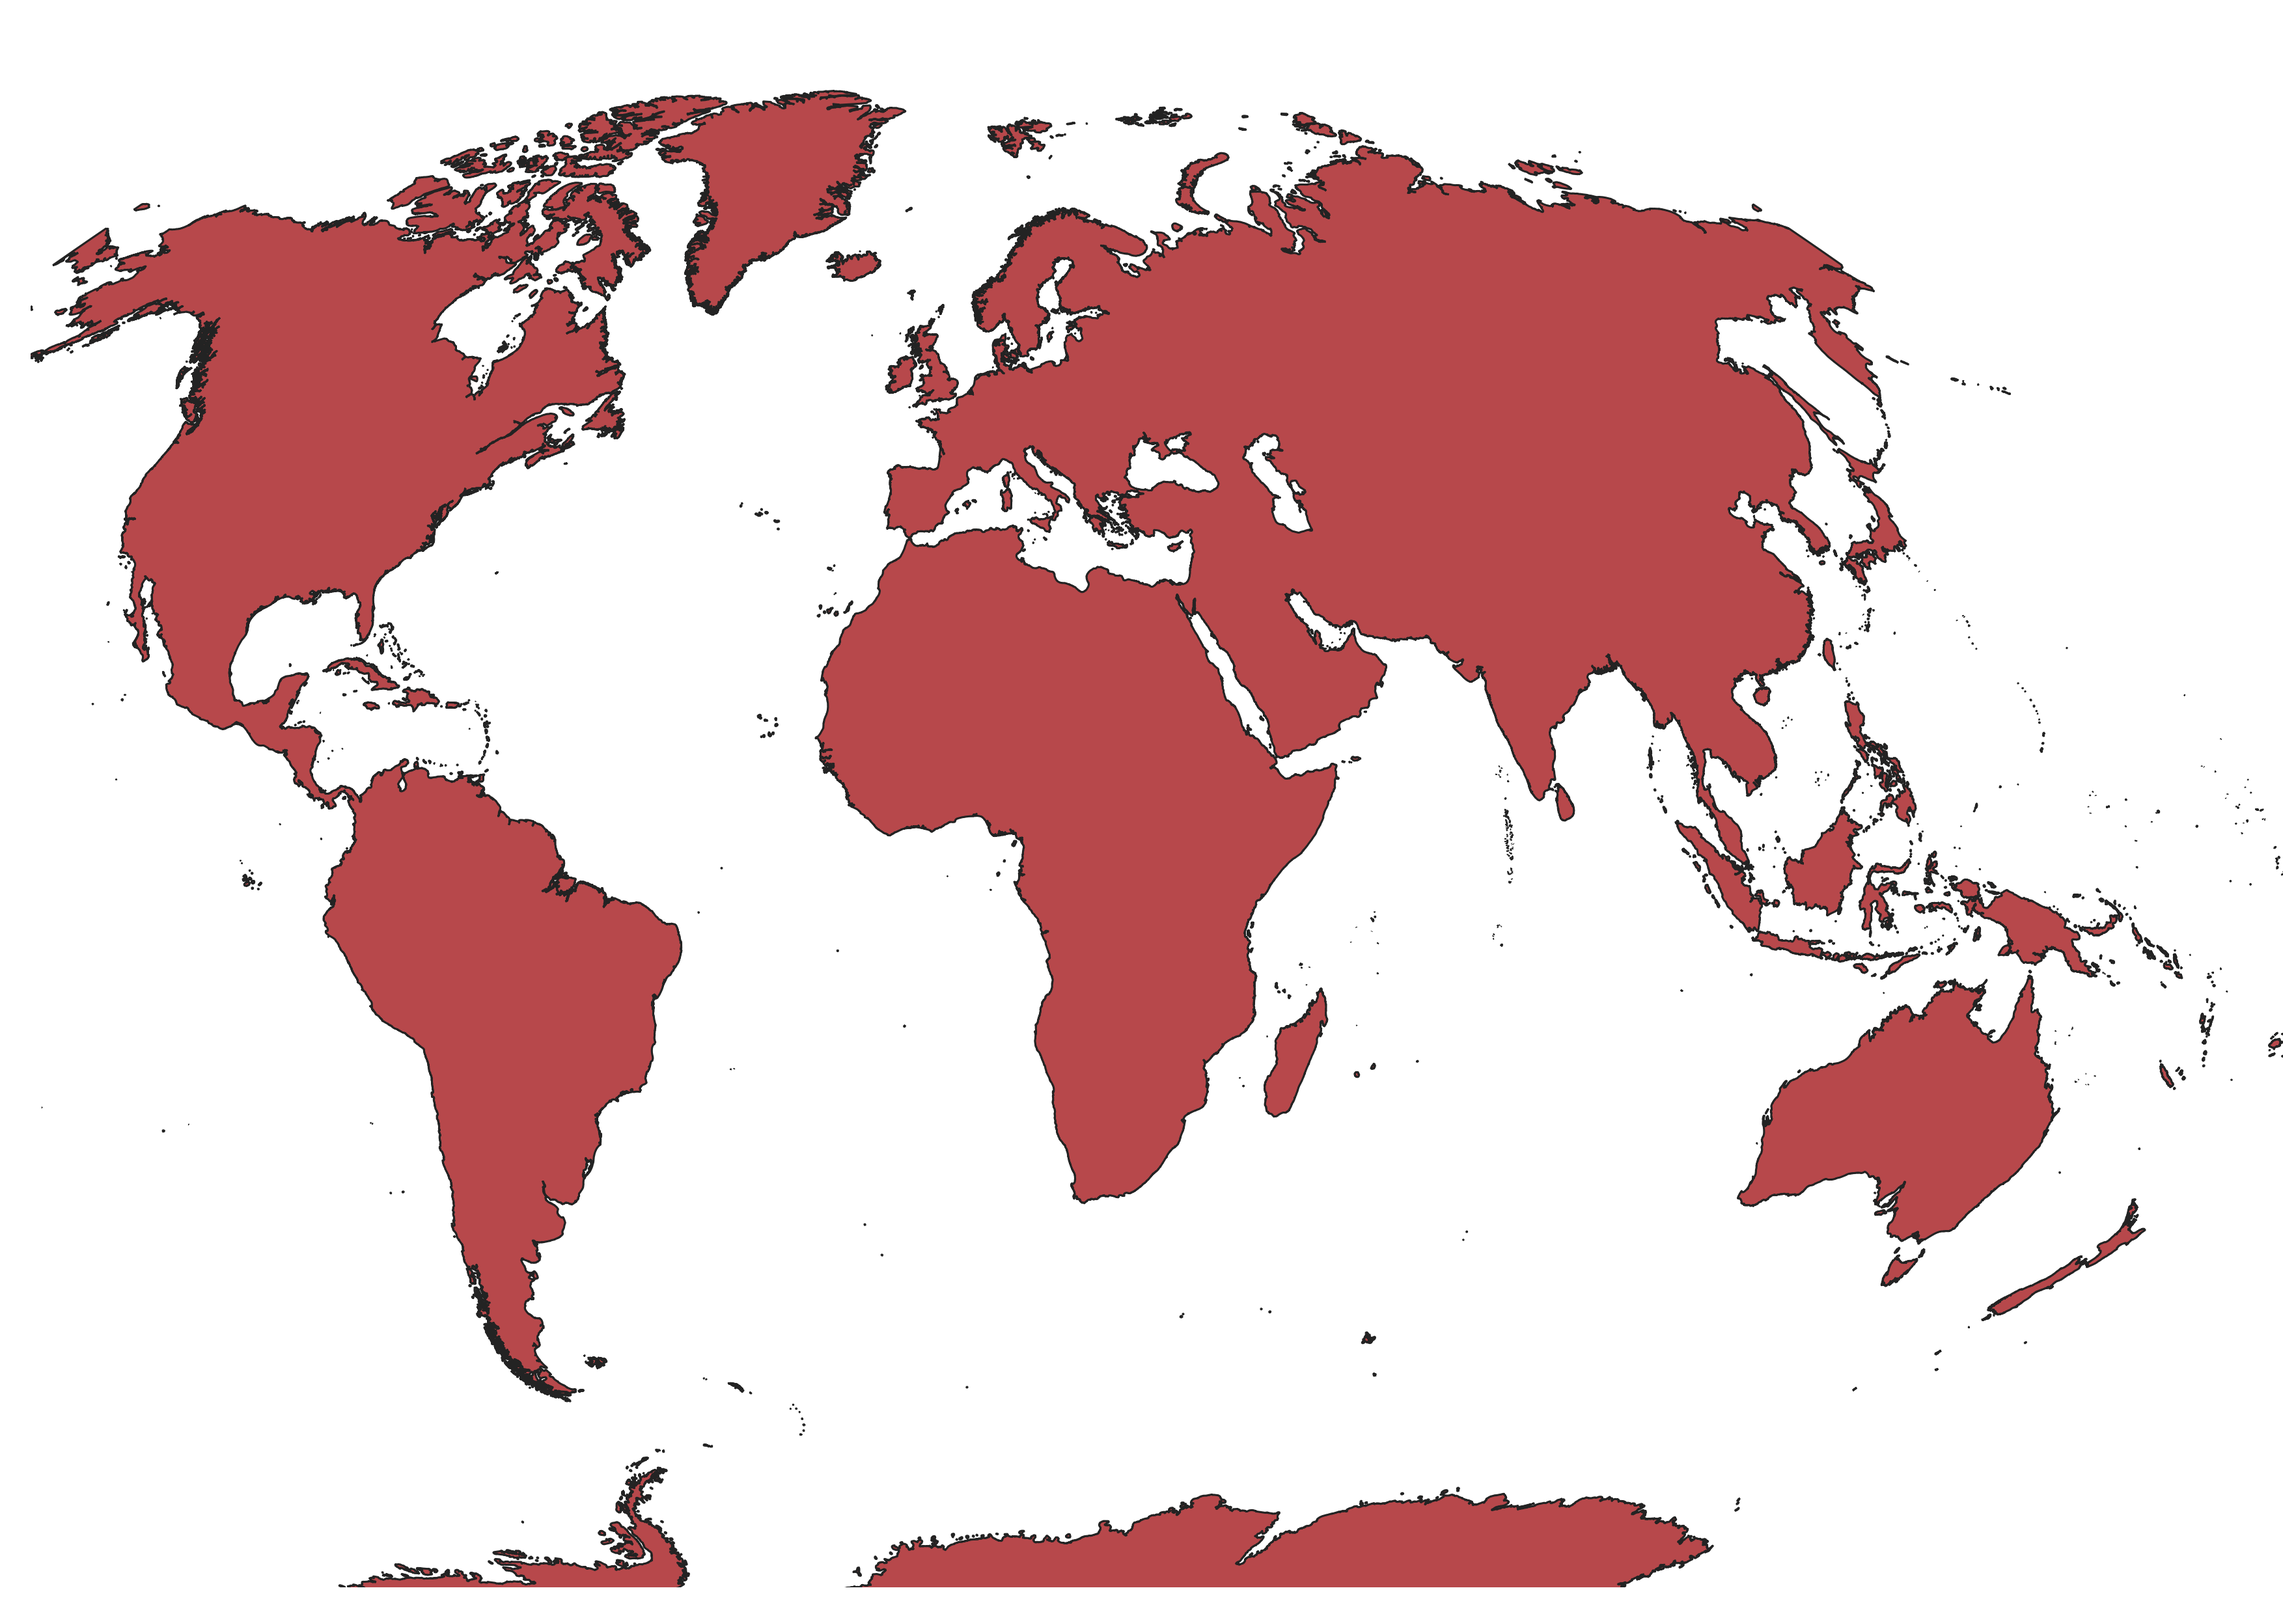
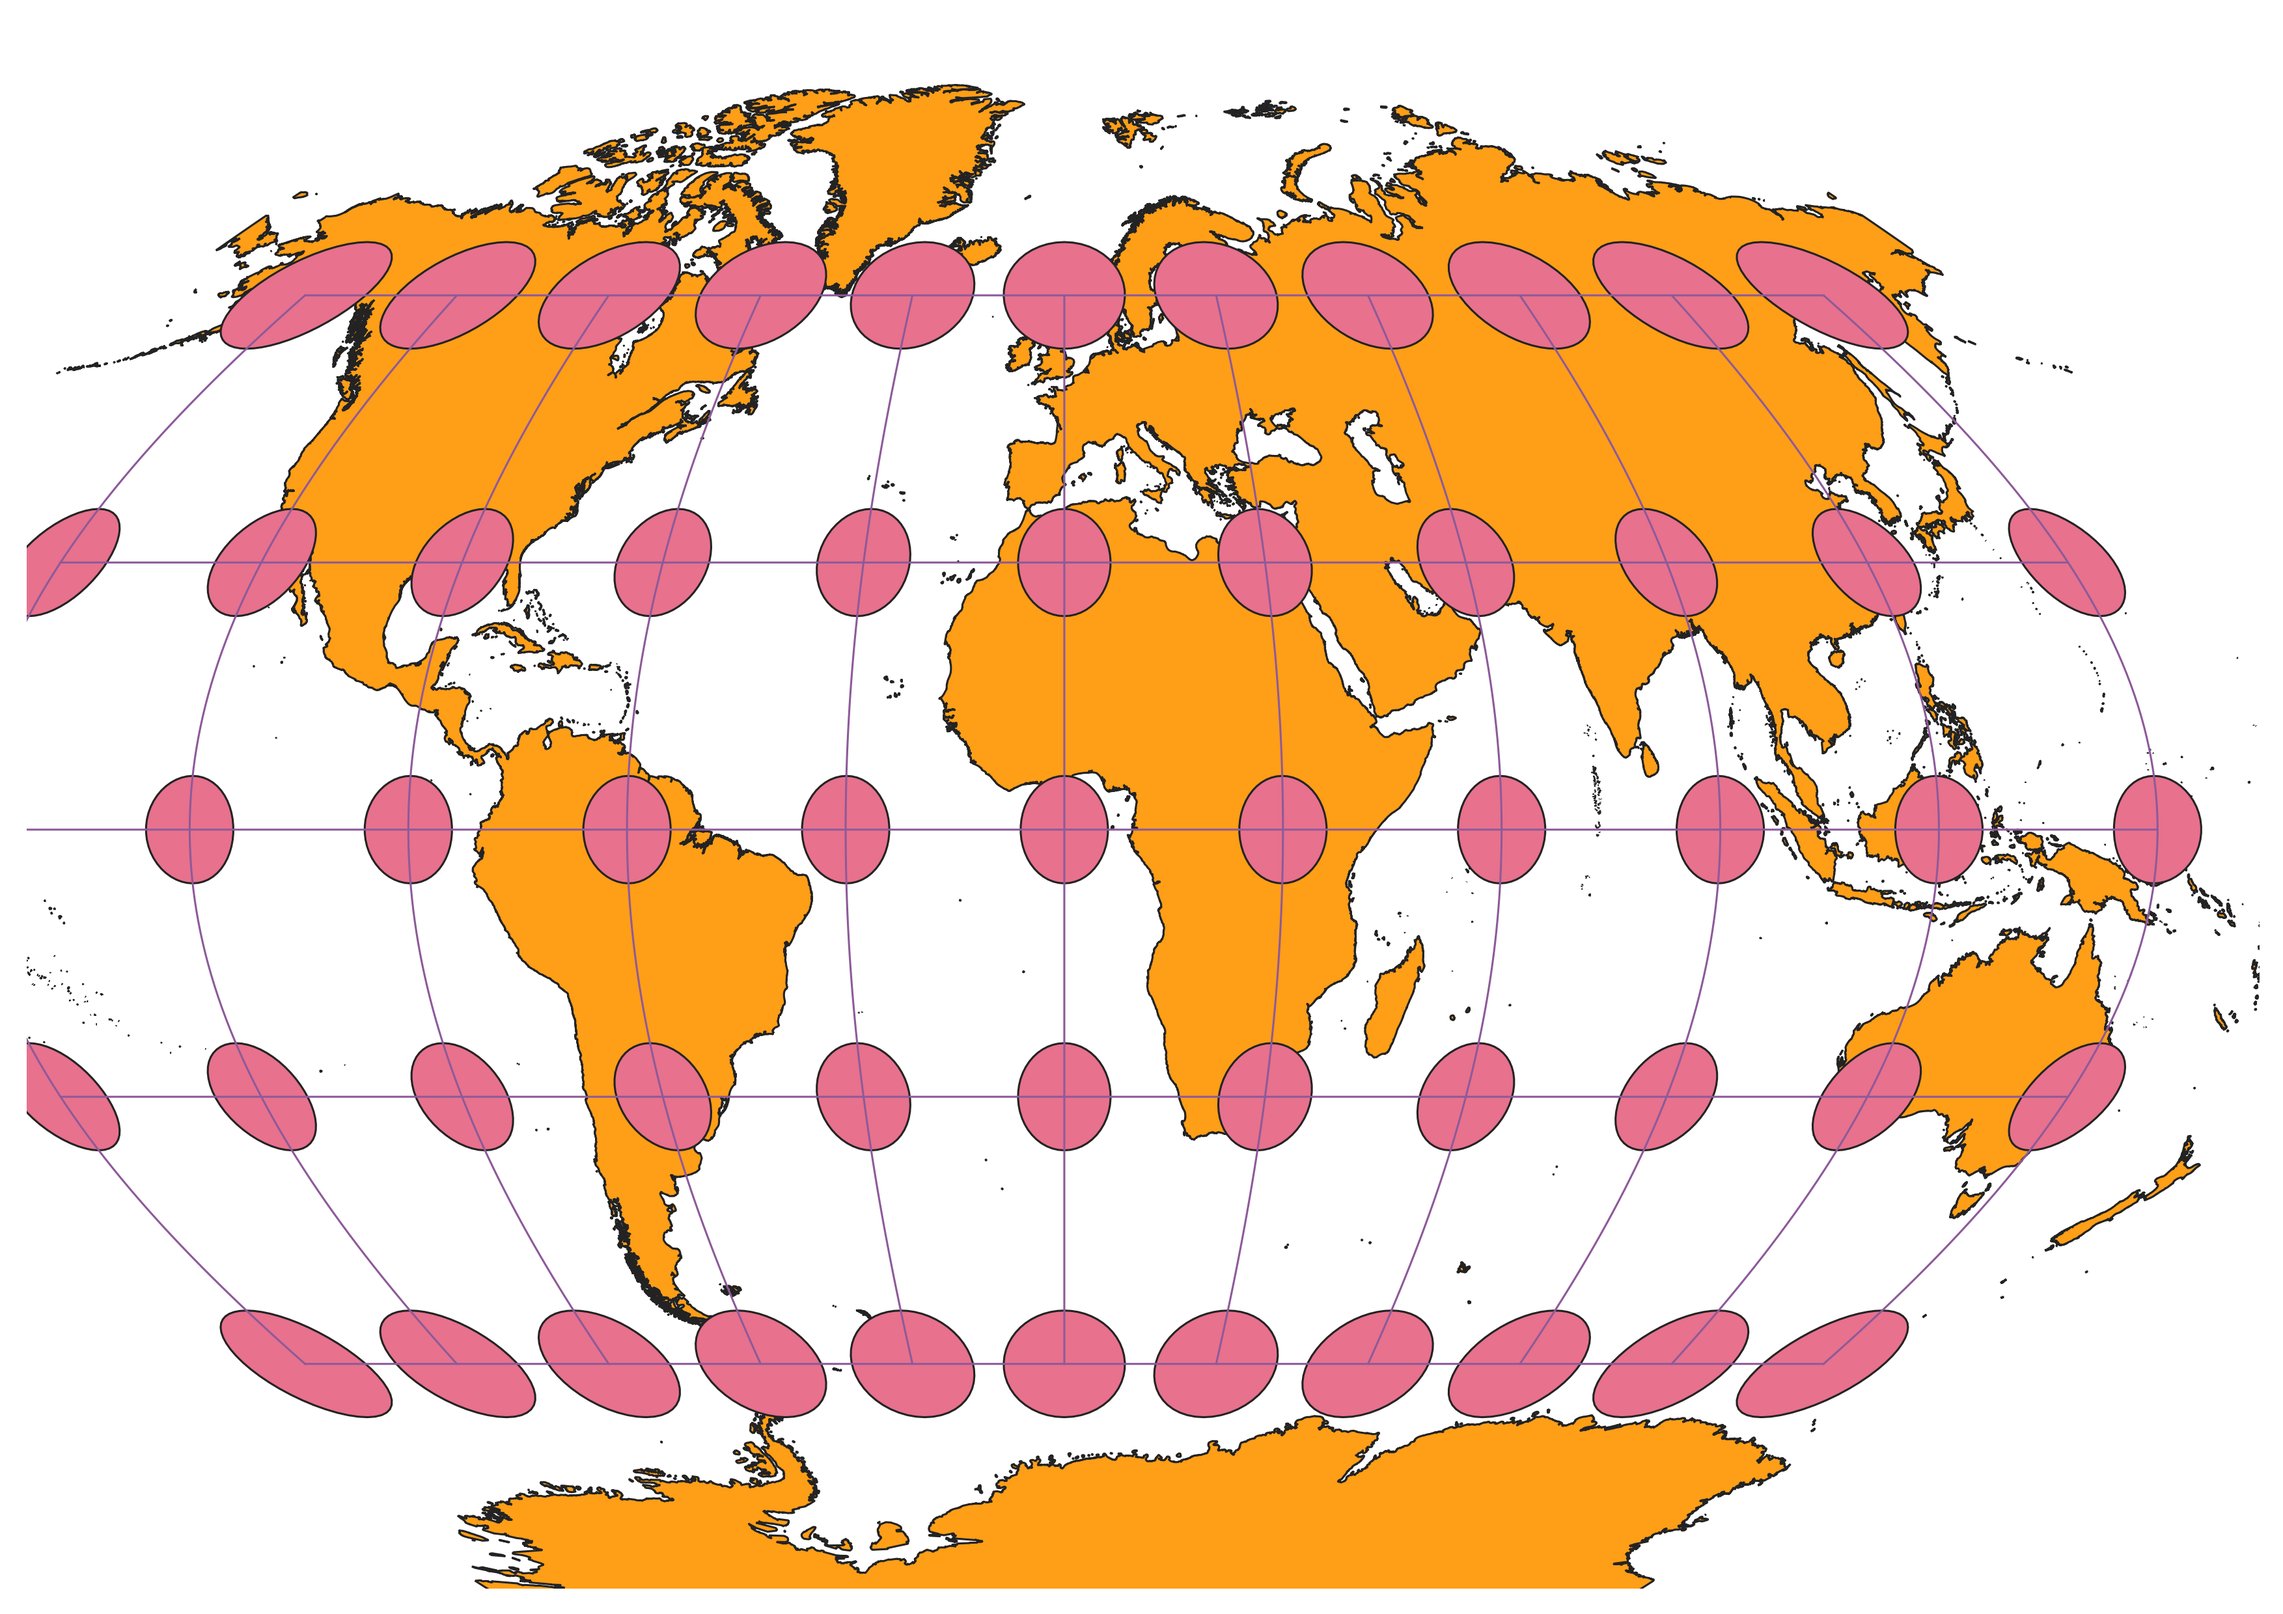
World Cylindrical

diff --git a/Worldprojections/worldprojections.html b/Worldprojections/worldprojections.html
@@ -34,6 +34,11 @@
     <a href=".//maps/53018.png">
     <img src=".//maps/53018.png" alt="Sphere Winkel" width='500px'>
     </a>
+    <h2>World Cylindrical Projection (54034)</h2>
+    <h3>Some observations</h3>
+    <a href=".//maps/54034.png">
+    <img src=".//maps/54034.png" alt="World Cylindrical" width='500px'>
+    </a>
     <h2>Data used for this project</h2>
     <a href="https://www.naturalearthdata.com/http//www.naturalearthdata.com/download/10m/cultural/ne_10m_admin_0_countries.zip"> Download Natrual Earth 1:10m Cultural Vector </a>
 </body>
